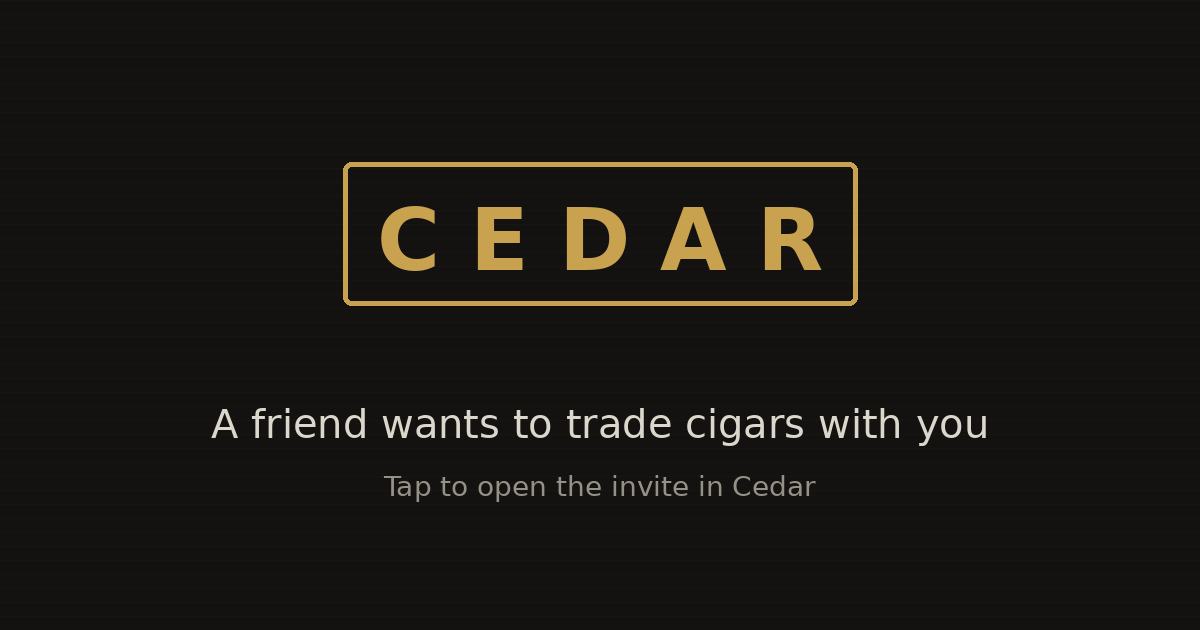
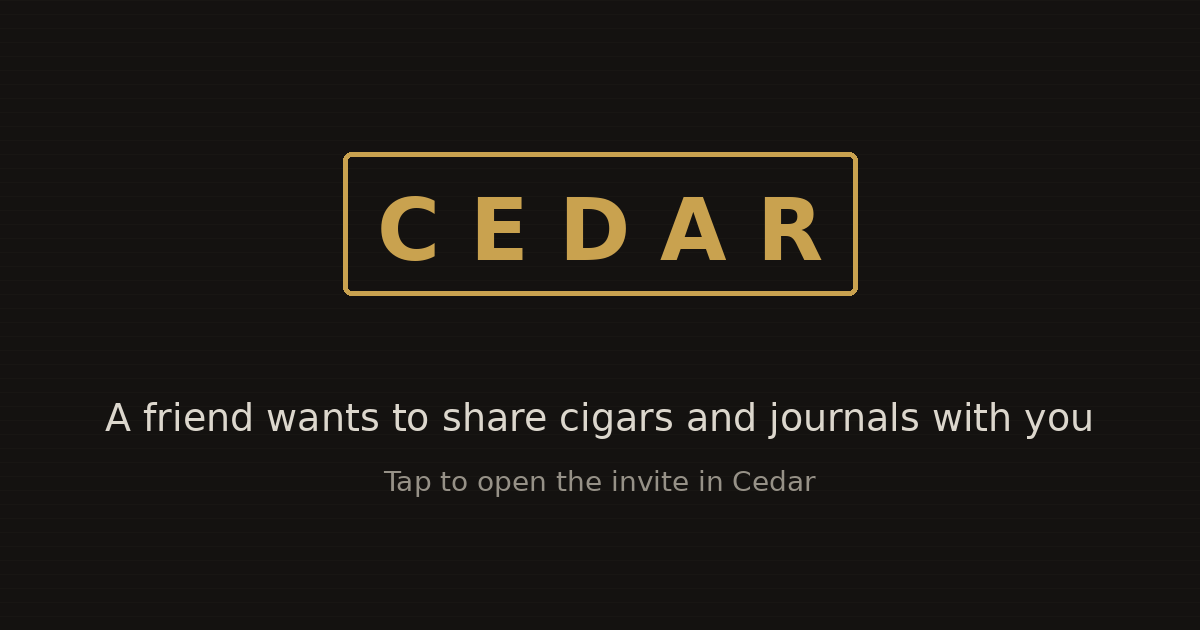
Invite cover: share cigars and journals

diff --git a/i/index.html b/i/index.html
@@ -5,7 +5,7 @@
 <meta name="viewport" content="width=device-width, initial-scale=1">
 <title>Cedar invite</title>
 <meta property="og:title" content="Cedar invite">
-<meta property="og:description" content="A friend wants to trade cigars with you. Tap to open it in Cedar.">
+<meta property="og:description" content="A friend wants to share cigars and journals with you. Tap to open it in Cedar.">
 <meta property="og:type" content="website">
 <meta property="og:image" content="https://cedar.theworkface.ai/i/cover.png">
 <meta property="og:image:width" content="1200">
